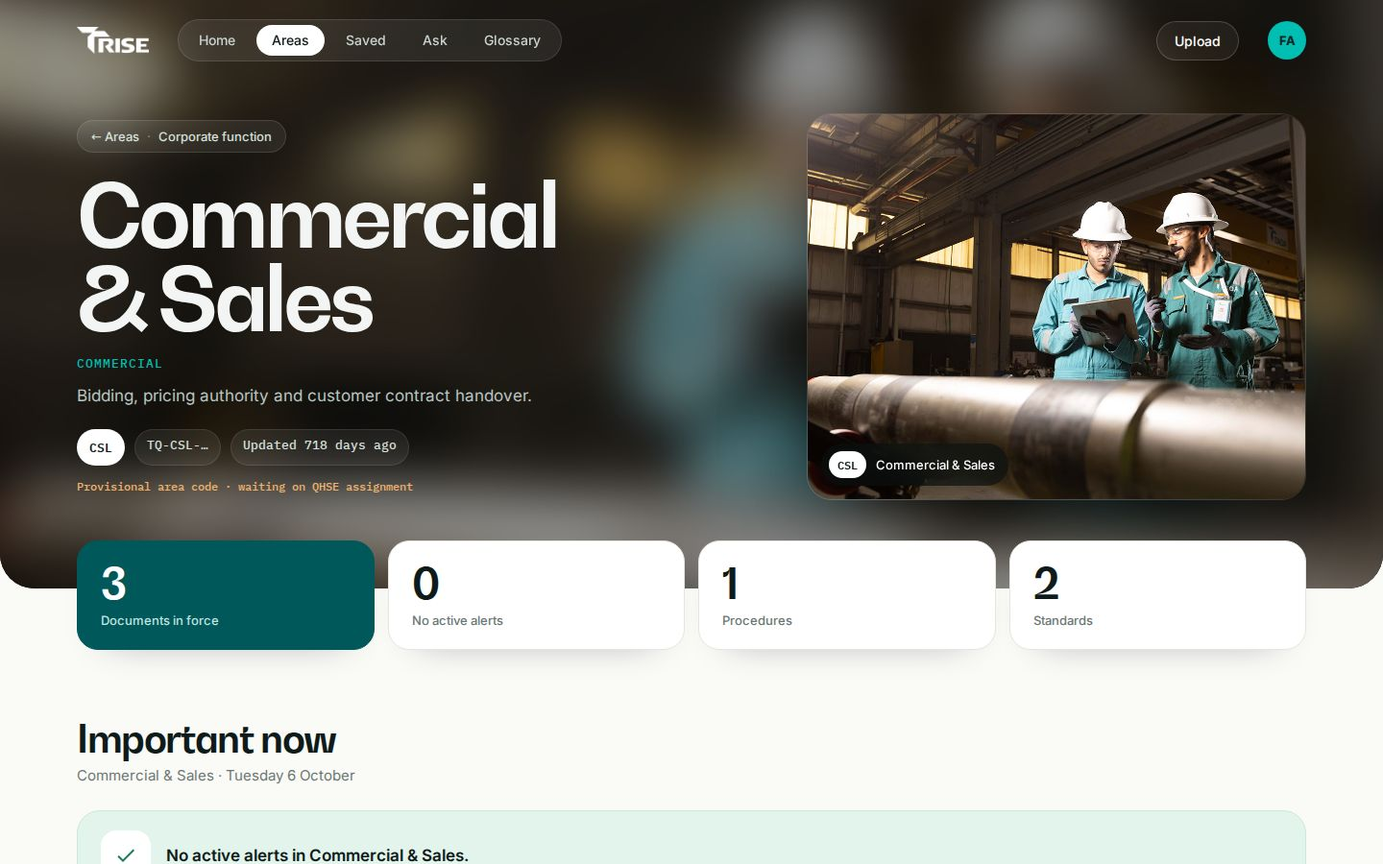
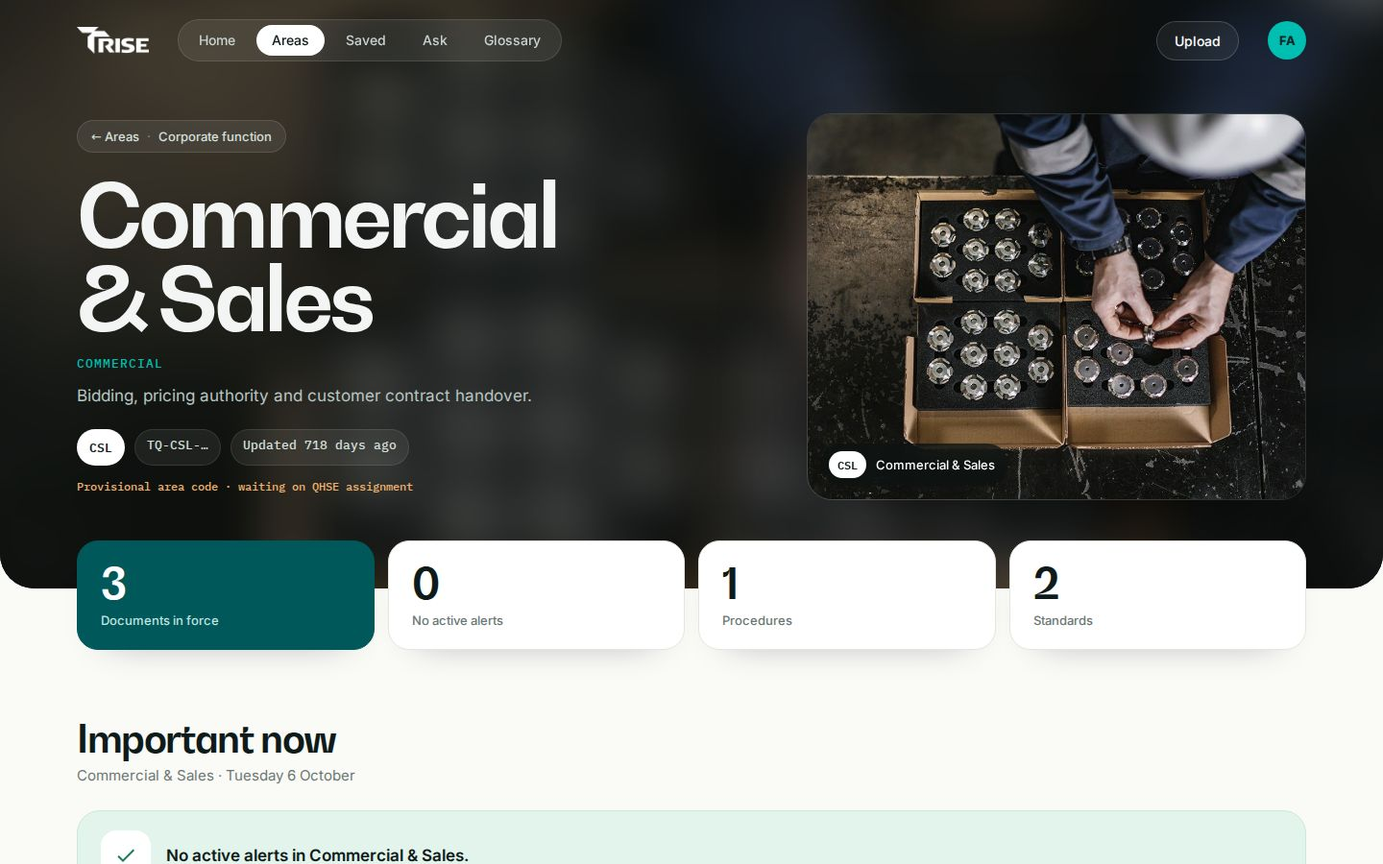
RISE: photos for eight more areas, Well Completions photo as the default (exploration)
Claude-Session: https://claude.ai/code/session_01SsmAy64nNwXThAWKPA8c7n

diff --git a/docs/design/rise-exploration/register/pages/seg-pt-drilling-coe.html b/docs/design/rise-exploration/register/pages/seg-pt-drilling-coe.html
@@ -1,6 +1,6 @@
 <!doctype html><html lang="en"><head><meta charset="utf-8"><meta name="viewport" content="width=device-width,initial-scale=1">
 <title>RISE · Drilling Solutions Center of Excellence</title><link rel="stylesheet" href="../../kit/fonts.css"><link rel="stylesheet" href="../css/nova.css"></head><body>
-<header class="mx sg"><div class="bg" style="background-image:url(../img/product-centre.webp)"></div>
+<header class="mx sg"><div class="bg" style="background-image:url(../img/seg-pt-drilling-coe.jpg)"></div>
 <div class="w hn"><a href="bold-mix.html"><img src="../../kit/brand/rise-lockup-header.png" alt="RISE"></a><nav class="links"><a href="bold-mix.html">Home</a><a class="on" href="segments.html">Areas</a><a href="saved.html">Saved</a><a href="ask.html">Ask</a><a href="glossary.html">Glossary</a></nav>
 <span class="sp"></span><a class="up" href="upload.html">Upload</a><span class="av">FA</span></div>
 <div class="w sgh"><div class="sgl">
@@ -9,7 +9,7 @@
   <div class="meta"><span class="code">DSC</span><span class="numl">TQ-P&T-DSC-…</span><span class="upd">Updated 428 days ago</span></div>
   <p class="prov">Provisional area code · waiting on QHSE assignment</p>
 </div>
-<figure class="sgp"><img src="../img/product-centre.webp" alt="Drilling Solutions Center of Excellence"><figcaption><span>DSC</span>Drilling Solutions Center of Excellence</figcaption></figure></div></header>
+<figure class="sgp"><img src="../img/seg-pt-drilling-coe.jpg" alt="Drilling Solutions Center of Excellence" style="object-position:80% 20%"><figcaption><span>DSC</span>Drilling Solutions Center of Excellence</figcaption></figure></div></header>
 <main class="w">
 <div class="mxstats"><div class="stats"><div class="stat t"><b>8</b><span>Documents in force</span></div><div class="stat al"><b>1</b><span>Active alert</span></div><div class="stat"><b>3</b><span>Procedures</span></div><div class="stat"><b>2</b><span>Product Manuals</span></div></div></div>
 <section class="sec"><div class="sh"><div><h2>Important now</h2><p>Drilling Solutions Center of Excellence · Tuesday 6 October</p></div></div><a class="alertc" href="#"><span class="ic"><svg viewBox="0 0 24 24" aria-hidden="true"><path fill="currentColor" d="M12 2 22 20H2zm-1 7v5h2V9zm0 7v2h2v-2z"/></svg></span><span class="tx"><span class="m">TECHNICAL ALERT · ALT-007 · REV 1.0</span><b>Jar Mandrel Inspection Interval Revised</b>

diff --git a/docs/design/rise-exploration/register/pages/seg-pt-completions-coe.html b/docs/design/rise-exploration/register/pages/seg-pt-completions-coe.html
@@ -1,6 +1,6 @@
 <!doctype html><html lang="en"><head><meta charset="utf-8"><meta name="viewport" content="width=device-width,initial-scale=1">
 <title>RISE · Well Completions Center of Excellence</title><link rel="stylesheet" href="../../kit/fonts.css"><link rel="stylesheet" href="../css/nova.css"></head><body>
-<header class="mx sg"><div class="bg" style="background-image:url(../img/product-centre.webp)"></div>
+<header class="mx sg"><div class="bg" style="background-image:url(../img/seg-pt-completions-coe.jpg)"></div>
 <div class="w hn"><a href="bold-mix.html"><img src="../../kit/brand/rise-lockup-header.png" alt="RISE"></a><nav class="links"><a href="bold-mix.html">Home</a><a class="on" href="segments.html">Areas</a><a href="saved.html">Saved</a><a href="ask.html">Ask</a><a href="glossary.html">Glossary</a></nav>
 <span class="sp"></span><a class="up" href="upload.html">Upload</a><span class="av">FA</span></div>
 <div class="w sgh"><div class="sgl">
@@ -9,7 +9,7 @@
   <div class="meta"><span class="code">WCC</span><span class="numl">TQ-P&T-WCC-…</span><span class="upd">Updated 450 days ago</span></div>
   <p class="prov">Provisional area code · waiting on QHSE assignment</p>
 </div>
-<figure class="sgp"><img src="../img/product-centre.webp" alt="Well Completions Center of Excellence"><figcaption><span>WCC</span>Well Completions Center of Excellence</figcaption></figure></div></header>
+<figure class="sgp"><img src="../img/seg-pt-completions-coe.jpg" alt="Well Completions Center of Excellence"><figcaption><span>WCC</span>Well Completions Center of Excellence</figcaption></figure></div></header>
 <main class="w">
 <div class="mxstats"><div class="stats"><div class="stat t"><b>7</b><span>Documents in force</span></div><div class="stat"><b>0</b><span>No active alerts</span></div><div class="stat"><b>3</b><span>Procedures</span></div><div class="stat"><b>2</b><span>Product Manuals</span></div></div></div>
 <section class="sec"><div class="sh"><div><h2>Important now</h2><p>Well Completions Center of Excellence · Tuesday 6 October</p></div></div><div class="calmc"><span class="ic"><svg viewBox="0 0 24 24" aria-hidden="true"><path fill="currentColor" d="M9 16.2 4.8 12l-1.4 1.4L9 19 21 7l-1.4-1.4z"/></svg></span><b>No active alerts in Well Completions Center of Excellence.</b></div></section>

diff --git a/docs/design/rise-exploration/register/pages/seg-well-safety.html b/docs/design/rise-exploration/register/pages/seg-well-safety.html
@@ -1,6 +1,6 @@
 <!doctype html><html lang="en"><head><meta charset="utf-8"><meta name="viewport" content="width=device-width,initial-scale=1">
 <title>RISE · Safety Services</title><link rel="stylesheet" href="../../kit/fonts.css"><link rel="stylesheet" href="../css/nova.css"></head><body>
-<header class="mx sg"><div class="bg" style="background-image:url(../img/taqa-hero-5.jpeg)"></div>
+<header class="mx sg"><div class="bg" style="background-image:url(../img/seg-well-safety.jpg)"></div>
 <div class="w hn"><a href="bold-mix.html"><img src="../../kit/brand/rise-lockup-header.png" alt="RISE"></a><nav class="links"><a href="bold-mix.html">Home</a><a class="on" href="segments.html">Areas</a><a href="saved.html">Saved</a><a href="ask.html">Ask</a><a href="glossary.html">Glossary</a></nav>
 <span class="sp"></span><a class="up" href="upload.html">Upload</a><span class="av">FA</span></div>
 <div class="w sgh"><div class="sgl">
@@ -9,7 +9,7 @@
   <div class="meta"><span class="code">WSS</span><span class="numl">TQ-TWS-WSS-…</span><span class="upd">Updated 25 days ago</span></div>
   <nav class="sw"><a class="on" href="#">Operations</a><a href="#">Maintenance</a></nav>
 </div>
-<figure class="sgp"><img src="../img/taqa-hero-5.jpeg" alt="Safety Services"><figcaption><span>WSS</span>Safety Services</figcaption></figure></div></header>
+<figure class="sgp"><img src="../img/seg-well-safety.jpg" alt="Safety Services"><figcaption><span>WSS</span>Safety Services</figcaption></figure></div></header>
 <main class="w">
 <div class="mxstats"><div class="stats"><div class="stat t"><b>41</b><span>Documents in force</span></div><div class="stat al"><b>4</b><span>Active alerts</span></div><div class="stat"><b>13</b><span>Standard Operating Procedures</span></div><div class="stat"><b>5</b><span>Technical Manuals</span></div></div></div>
 <section class="sec"><div class="sh"><div><h2>Important now</h2><p>Safety Services · Operations · Tuesday 6 October</p></div></div><a class="alertc" href="#"><span class="ic"><svg viewBox="0 0 24 24" aria-hidden="true"><path fill="currentColor" d="M12 2 22 20H2zm-1 7v5h2V9zm0 7v2h2v-2z"/></svg></span><span class="tx"><span class="m">TECHNICAL ALERT · ALT-004 · REV 1.0</span><b>Barrier integrity concern on 3 wells, inspection ordered</b>

diff --git a/docs/design/rise-exploration/register/pages/seg-cybersecurity.html b/docs/design/rise-exploration/register/pages/seg-cybersecurity.html
@@ -1,6 +1,6 @@
 <!doctype html><html lang="en"><head><meta charset="utf-8"><meta name="viewport" content="width=device-width,initial-scale=1">
 <title>RISE · Governance, Risk & Compliance</title><link rel="stylesheet" href="../../kit/fonts.css"><link rel="stylesheet" href="../css/nova.css"></head><body>
-<header class="mx sg"><div class="bg" style="background-image:url(../img/taqa-hero-4.jpg)"></div>
+<header class="mx sg"><div class="bg" style="background-image:url(../img/seg-well-completions.jpg)"></div>
 <div class="w hn"><a href="bold-mix.html"><img src="../../kit/brand/rise-lockup-header.png" alt="RISE"></a><nav class="links"><a href="bold-mix.html">Home</a><a class="on" href="segments.html">Areas</a><a href="saved.html">Saved</a><a href="ask.html">Ask</a><a href="glossary.html">Glossary</a></nav>
 <span class="sp"></span><a class="up" href="upload.html">Upload</a><span class="av">FA</span></div>
 <div class="w sgh"><div class="sgl">
@@ -9,7 +9,7 @@
   <div class="meta"><span class="code">GRC</span><span class="numl">TQ-GRC-…</span><span class="upd">Updated 30 days ago</span></div>
   
 </div>
-<figure class="sgp"><img src="../img/taqa-hero-4.jpg" alt="Governance, Risk & Compliance"><figcaption><span>GRC</span>Governance, Risk & Compliance</figcaption></figure></div></header>
+<figure class="sgp"><img src="../img/seg-well-completions.jpg" alt="Governance, Risk & Compliance"><figcaption><span>GRC</span>Governance, Risk & Compliance</figcaption></figure></div></header>
 <main class="w">
 <div class="mxstats"><div class="stats"><div class="stat t"><b>24</b><span>Documents in force</span></div><div class="stat al"><b>1</b><span>Active alert</span></div><div class="stat"><b>6</b><span>Procedures</span></div><div class="stat"><b>5</b><span>Manuals</span></div></div></div>
 <section class="sec"><div class="sh"><div><h2>Important now</h2><p>Governance, Risk & Compliance · Tuesday 6 October</p></div></div><a class="alertc" href="#"><span class="ic"><svg viewBox="0 0 24 24" aria-hidden="true"><path fill="currentColor" d="M12 2 22 20H2zm-1 7v5h2V9zm0 7v2h2v-2z"/></svg></span><span class="tx"><span class="m">TECHNICAL ALERT · ALT-001 · REV 4.0</span><b>Annual security awareness training due, all staff must complete by July 2026</b>

diff --git a/docs/design/rise-exploration/register/pages/seg-geothermal-coe.html b/docs/design/rise-exploration/register/pages/seg-geothermal-coe.html
@@ -1,6 +1,6 @@
 <!doctype html><html lang="en"><head><meta charset="utf-8"><meta name="viewport" content="width=device-width,initial-scale=1">
 <title>RISE · Geothermal Center of Excellence</title><link rel="stylesheet" href="../../kit/fonts.css"><link rel="stylesheet" href="../css/nova.css"></head><body>
-<header class="mx sg"><div class="bg" style="background-image:url(../img/taqa-hero-3.jpeg)"></div>
+<header class="mx sg"><div class="bg" style="background-image:url(../img/seg-geothermal-coe.jpg)"></div>
 <div class="w hn"><a href="bold-mix.html"><img src="../../kit/brand/rise-lockup-header.png" alt="RISE"></a><nav class="links"><a href="bold-mix.html">Home</a><a class="on" href="segments.html">Areas</a><a href="saved.html">Saved</a><a href="ask.html">Ask</a><a href="glossary.html">Glossary</a></nav>
 <span class="sp"></span><a class="up" href="upload.html">Upload</a><span class="av">FA</span></div>
 <div class="w sgh"><div class="sgl">
@@ -9,7 +9,7 @@
   <div class="meta"><span class="code">GEO</span><span class="numl">TQ-GEO-…</span><span class="upd">Updated 434 days ago</span></div>
   <p class="prov">Provisional area code · waiting on QHSE assignment</p>
 </div>
-<figure class="sgp"><img src="../img/taqa-hero-3.jpeg" alt="Geothermal Center of Excellence"><figcaption><span>GEO</span>Geothermal Center of Excellence</figcaption></figure></div></header>
+<figure class="sgp"><img src="../img/seg-geothermal-coe.jpg" alt="Geothermal Center of Excellence"><figcaption><span>GEO</span>Geothermal Center of Excellence</figcaption></figure></div></header>
 <main class="w">
 <div class="mxstats"><div class="stats"><div class="stat t"><b>3</b><span>Documents in force</span></div><div class="stat"><b>0</b><span>No active alerts</span></div><div class="stat"><b>2</b><span>Procedures</span></div><div class="stat"><b>1</b><span>Manuals</span></div></div></div>
 <section class="sec"><div class="sh"><div><h2>Important now</h2><p>Geothermal Center of Excellence · Tuesday 6 October</p></div></div><div class="calmc"><span class="ic"><svg viewBox="0 0 24 24" aria-hidden="true"><path fill="currentColor" d="M9 16.2 4.8 12l-1.4 1.4L9 19 21 7l-1.4-1.4z"/></svg></span><b>No active alerts in Geothermal Center of Excellence.</b></div></section>

diff --git a/docs/design/rise-exploration/register/pages/seg-well-completions.html b/docs/design/rise-exploration/register/pages/seg-well-completions.html
@@ -1,6 +1,6 @@
 <!doctype html><html lang="en"><head><meta charset="utf-8"><meta name="viewport" content="width=device-width,initial-scale=1">
 <title>RISE · Well Completions</title><link rel="stylesheet" href="../../kit/fonts.css"><link rel="stylesheet" href="../css/nova.css"></head><body>
-<header class="mx sg"><div class="bg" style="background-image:url(../img/taqa-hero-2.jpg)"></div>
+<header class="mx sg"><div class="bg" style="background-image:url(../img/seg-well-completions.jpg)"></div>
 <div class="w hn"><a href="bold-mix.html"><img src="../../kit/brand/rise-lockup-header.png" alt="RISE"></a><nav class="links"><a href="bold-mix.html">Home</a><a class="on" href="segments.html">Areas</a><a href="saved.html">Saved</a><a href="ask.html">Ask</a><a href="glossary.html">Glossary</a></nav>
 <span class="sp"></span><a class="up" href="upload.html">Upload</a><span class="av">FA</span></div>
 <div class="w sgh"><div class="sgl">
@@ -9,7 +9,7 @@
   <div class="meta"><span class="code">WCS</span><span class="numl">TQ-WCS-…</span><span class="upd">Updated 575 days ago</span></div>
   <nav class="sw"><a class="on" href="#">Operations</a><a href="#">Maintenance</a></nav>
 </div>
-<figure class="sgp"><img src="../img/taqa-hero-2.jpg" alt="Well Completions"><figcaption><span>WCS</span>Well Completions</figcaption></figure></div></header>
+<figure class="sgp"><img src="../img/seg-well-completions.jpg" alt="Well Completions"><figcaption><span>WCS</span>Well Completions</figcaption></figure></div></header>
 <main class="w">
 <div class="mxstats"><div class="stats"><div class="stat t"><b>3</b><span>Documents in force</span></div><div class="stat"><b>0</b><span>No active alerts</span></div><div class="stat"><b>2</b><span>Standard Operating Procedures</span></div><div class="stat"><b>1</b><span>Technical Manuals</span></div></div></div>
 <section class="sec"><div class="sh"><div><h2>Important now</h2><p>Well Completions · Operations · Tuesday 6 October</p></div></div><div class="calmc"><span class="ic"><svg viewBox="0 0 24 24" aria-hidden="true"><path fill="currentColor" d="M9 16.2 4.8 12l-1.4 1.4L9 19 21 7l-1.4-1.4z"/></svg></span><b>No active alerts in Well Completions.</b></div></section>

diff --git a/docs/design/rise-exploration/register/pages/seg-marine-services.html b/docs/design/rise-exploration/register/pages/seg-marine-services.html
@@ -1,6 +1,6 @@
 <!doctype html><html lang="en"><head><meta charset="utf-8"><meta name="viewport" content="width=device-width,initial-scale=1">
 <title>RISE · Marine Services</title><link rel="stylesheet" href="../../kit/fonts.css"><link rel="stylesheet" href="../css/nova.css"></head><body>
-<header class="mx sg"><div class="bg" style="background-image:url(../img/taqa-hero-2.jpg)"></div>
+<header class="mx sg"><div class="bg" style="background-image:url(../img/seg-marine-services.jpg)"></div>
 <div class="w hn"><a href="bold-mix.html"><img src="../../kit/brand/rise-lockup-header.png" alt="RISE"></a><nav class="links"><a href="bold-mix.html">Home</a><a class="on" href="segments.html">Areas</a><a href="saved.html">Saved</a><a href="ask.html">Ask</a><a href="glossary.html">Glossary</a></nav>
 <span class="sp"></span><a class="up" href="upload.html">Upload</a><span class="av">FA</span></div>
 <div class="w sgh"><div class="sgl">
@@ -9,7 +9,7 @@
   <div class="meta"><span class="code">MS</span><span class="numl">TQ-MS-…</span><span class="upd">Updated 408 days ago</span></div>
   <nav class="sw"><a class="on" href="#">Operations</a><a href="#">Maintenance</a></nav>
 </div>
-<figure class="sgp"><img src="../img/taqa-hero-2.jpg" alt="Marine Services"><figcaption><span>MS</span>Marine Services</figcaption></figure></div></header>
+<figure class="sgp"><img src="../img/seg-marine-services.jpg" alt="Marine Services"><figcaption><span>MS</span>Marine Services</figcaption></figure></div></header>
 <main class="w">
 <div class="mxstats"><div class="stats"><div class="stat t"><b>3</b><span>Documents in force</span></div><div class="stat"><b>0</b><span>No active alerts</span></div><div class="stat"><b>2</b><span>Standard Operating Procedures</span></div><div class="stat"><b>1</b><span>Forms & Checklists</span></div></div></div>
 <section class="sec"><div class="sh"><div><h2>Important now</h2><p>Marine Services · Operations · Tuesday 6 October</p></div></div><div class="calmc"><span class="ic"><svg viewBox="0 0 24 24" aria-hidden="true"><path fill="currentColor" d="M9 16.2 4.8 12l-1.4 1.4L9 19 21 7l-1.4-1.4z"/></svg></span><b>No active alerts in Marine Services.</b></div></section>

diff --git a/docs/design/rise-exploration/register/pages/seg-well-testing.html b/docs/design/rise-exploration/register/pages/seg-well-testing.html
@@ -1,6 +1,6 @@
 <!doctype html><html lang="en"><head><meta charset="utf-8"><meta name="viewport" content="width=device-width,initial-scale=1">
 <title>RISE · Well Testing</title><link rel="stylesheet" href="../../kit/fonts.css"><link rel="stylesheet" href="../css/nova.css"></head><body>
-<header class="mx sg"><div class="bg" style="background-image:url(../img/taqa-hero-3.jpeg)"></div>
+<header class="mx sg"><div class="bg" style="background-image:url(../img/seg-well-testing.jpg)"></div>
 <div class="w hn"><a href="bold-mix.html"><img src="../../kit/brand/rise-lockup-header.png" alt="RISE"></a><nav class="links"><a href="bold-mix.html">Home</a><a class="on" href="segments.html">Areas</a><a href="saved.html">Saved</a><a href="ask.html">Ask</a><a href="glossary.html">Glossary</a></nav>
 <span class="sp"></span><a class="up" href="upload.html">Upload</a><span class="av">FA</span></div>
 <div class="w sgh"><div class="sgl">
@@ -9,7 +9,7 @@
   <div class="meta"><span class="code">WTS</span><span class="numl">TQ-TWS-WTS-…</span><span class="upd">Updated 109 days ago</span></div>
   <nav class="sw"><a class="on" href="#">Operations</a><a href="#">Maintenance</a></nav>
 </div>
-<figure class="sgp"><img src="../img/taqa-hero-3.jpeg" alt="Well Testing"><figcaption><span>WTS</span>Well Testing</figcaption></figure></div></header>
+<figure class="sgp"><img src="../img/seg-well-testing.jpg" alt="Well Testing"><figcaption><span>WTS</span>Well Testing</figcaption></figure></div></header>
 <main class="w">
 <div class="mxstats"><div class="stats"><div class="stat t"><b>21</b><span>Documents in force</span></div><div class="stat"><b>0</b><span>No active alerts</span></div><div class="stat"><b>7</b><span>Standard Operating Procedures</span></div><div class="stat"><b>6</b><span>Technical Manuals</span></div></div></div>
 <section class="sec"><div class="sh"><div><h2>Important now</h2><p>Well Testing · Operations · Tuesday 6 October</p></div></div><div class="calmc"><span class="ic"><svg viewBox="0 0 24 24" aria-hidden="true"><path fill="currentColor" d="M9 16.2 4.8 12l-1.4 1.4L9 19 21 7l-1.4-1.4z"/></svg></span><b>No active alerts in Well Testing.</b></div></section>

diff --git a/docs/design/rise-exploration/register/pages/seg-commercial.html b/docs/design/rise-exploration/register/pages/seg-commercial.html
@@ -1,6 +1,6 @@
 <!doctype html><html lang="en"><head><meta charset="utf-8"><meta name="viewport" content="width=device-width,initial-scale=1">
 <title>RISE · Commercial & Sales</title><link rel="stylesheet" href="../../kit/fonts.css"><link rel="stylesheet" href="../css/nova.css"></head><body>
-<header class="mx sg"><div class="bg" style="background-image:url(../img/taqa-hero-3.jpeg)"></div>
+<header class="mx sg"><div class="bg" style="background-image:url(../img/seg-well-completions.jpg)"></div>
 <div class="w hn"><a href="bold-mix.html"><img src="../../kit/brand/rise-lockup-header.png" alt="RISE"></a><nav class="links"><a href="bold-mix.html">Home</a><a class="on" href="segments.html">Areas</a><a href="saved.html">Saved</a><a href="ask.html">Ask</a><a href="glossary.html">Glossary</a></nav>
 <span class="sp"></span><a class="up" href="upload.html">Upload</a><span class="av">FA</span></div>
 <div class="w sgh"><div class="sgl">
@@ -9,7 +9,7 @@
   <div class="meta"><span class="code">CSL</span><span class="numl">TQ-CSL-…</span><span class="upd">Updated 718 days ago</span></div>
   <p class="prov">Provisional area code · waiting on QHSE assignment</p>
 </div>
-<figure class="sgp"><img src="../img/taqa-hero-3.jpeg" alt="Commercial & Sales"><figcaption><span>CSL</span>Commercial & Sales</figcaption></figure></div></header>
+<figure class="sgp"><img src="../img/seg-well-completions.jpg" alt="Commercial & Sales"><figcaption><span>CSL</span>Commercial & Sales</figcaption></figure></div></header>
 <main class="w">
 <div class="mxstats"><div class="stats"><div class="stat t"><b>3</b><span>Documents in force</span></div><div class="stat"><b>0</b><span>No active alerts</span></div><div class="stat"><b>1</b><span>Procedures</span></div><div class="stat"><b>2</b><span>Standards</span></div></div></div>
 <section class="sec"><div class="sh"><div><h2>Important now</h2><p>Commercial & Sales · Tuesday 6 October</p></div></div><div class="calmc"><span class="ic"><svg viewBox="0 0 24 24" aria-hidden="true"><path fill="currentColor" d="M9 16.2 4.8 12l-1.4 1.4L9 19 21 7l-1.4-1.4z"/></svg></span><b>No active alerts in Commercial & Sales.</b></div></section>

diff --git a/docs/design/rise-exploration/register/pages/seg-slickline.html b/docs/design/rise-exploration/register/pages/seg-slickline.html
@@ -1,6 +1,6 @@
 <!doctype html><html lang="en"><head><meta charset="utf-8"><meta name="viewport" content="width=device-width,initial-scale=1">
 <title>RISE · Slickline</title><link rel="stylesheet" href="../../kit/fonts.css"><link rel="stylesheet" href="../css/nova.css"></head><body>
-<header class="mx sg"><div class="bg" style="background-image:url(../img/taqa-hero-2.jpg)"></div>
+<header class="mx sg"><div class="bg" style="background-image:url(../img/seg-slickline.jpg)"></div>
 <div class="w hn"><a href="bold-mix.html"><img src="../../kit/brand/rise-lockup-header.png" alt="RISE"></a><nav class="links"><a href="bold-mix.html">Home</a><a class="on" href="segments.html">Areas</a><a href="saved.html">Saved</a><a href="ask.html">Ask</a><a href="glossary.html">Glossary</a></nav>
 <span class="sp"></span><a class="up" href="upload.html">Upload</a><span class="av">FA</span></div>
 <div class="w sgh"><div class="sgl">
@@ -9,7 +9,7 @@
   <div class="meta"><span class="code">SS</span><span class="numl">TQ-SS-…</span><span class="upd">Updated 284 days ago</span></div>
   <nav class="sw"><a class="on" href="#">Operations</a><a href="#">Maintenance</a></nav>
 </div>
-<figure class="sgp"><img src="../img/taqa-hero-2.jpg" alt="Slickline"><figcaption><span>SS</span>Slickline</figcaption></figure></div></header>
+<figure class="sgp"><img src="../img/seg-slickline.jpg" alt="Slickline"><figcaption><span>SS</span>Slickline</figcaption></figure></div></header>
 <main class="w">
 <div class="mxstats"><div class="stats"><div class="stat t"><b>3</b><span>Documents in force</span></div><div class="stat"><b>0</b><span>No active alerts</span></div><div class="stat"><b>2</b><span>Standard Operating Procedures</span></div><div class="stat"><b>1</b><span>Technical Manuals</span></div></div></div>
 <section class="sec"><div class="sh"><div><h2>Important now</h2><p>Slickline · Operations · Tuesday 6 October</p></div></div><div class="calmc"><span class="ic"><svg viewBox="0 0 24 24" aria-hidden="true"><path fill="currentColor" d="M9 16.2 4.8 12l-1.4 1.4L9 19 21 7l-1.4-1.4z"/></svg></span><b>No active alerts in Slickline.</b></div></section>

diff --git a/docs/design/rise-exploration/register/pages/seg-it.html b/docs/design/rise-exploration/register/pages/seg-it.html
@@ -1,6 +1,6 @@
 <!doctype html><html lang="en"><head><meta charset="utf-8"><meta name="viewport" content="width=device-width,initial-scale=1">
 <title>RISE · Information Technology</title><link rel="stylesheet" href="../../kit/fonts.css"><link rel="stylesheet" href="../css/nova.css"></head><body>
-<header class="mx sg"><div class="bg" style="background-image:url(../img/taqa-hero-3.jpeg)"></div>
+<header class="mx sg"><div class="bg" style="background-image:url(../img/seg-well-completions.jpg)"></div>
 <div class="w hn"><a href="bold-mix.html"><img src="../../kit/brand/rise-lockup-header.png" alt="RISE"></a><nav class="links"><a href="bold-mix.html">Home</a><a class="on" href="segments.html">Areas</a><a href="saved.html">Saved</a><a href="ask.html">Ask</a><a href="glossary.html">Glossary</a></nav>
 <span class="sp"></span><a class="up" href="upload.html">Upload</a><span class="av">FA</span></div>
 <div class="w sgh"><div class="sgl">
@@ -9,7 +9,7 @@
   <div class="meta"><span class="code">IT</span><span class="numl">TQ-IT-…</span><span class="upd">Updated 258 days ago</span></div>
   
 </div>
-<figure class="sgp"><img src="../img/taqa-hero-3.jpeg" alt="Information Technology"><figcaption><span>IT</span>Information Technology</figcaption></figure></div></header>
+<figure class="sgp"><img src="../img/seg-well-completions.jpg" alt="Information Technology"><figcaption><span>IT</span>Information Technology</figcaption></figure></div></header>
 <main class="w">
 <div class="mxstats"><div class="stats"><div class="stat t"><b>3</b><span>Documents in force</span></div><div class="stat"><b>0</b><span>No active alerts</span></div><div class="stat"><b>2</b><span>Procedures</span></div><div class="stat"><b>1</b><span>Standards</span></div></div></div>
 <section class="sec"><div class="sh"><div><h2>Important now</h2><p>Information Technology · Tuesday 6 October</p></div></div><div class="calmc"><span class="ic"><svg viewBox="0 0 24 24" aria-hidden="true"><path fill="currentColor" d="M9 16.2 4.8 12l-1.4 1.4L9 19 21 7l-1.4-1.4z"/></svg></span><b>No active alerts in Information Technology.</b></div></section>

diff --git a/docs/design/rise-exploration/register/pages/seg-hr.html b/docs/design/rise-exploration/register/pages/seg-hr.html
@@ -1,6 +1,6 @@
 <!doctype html><html lang="en"><head><meta charset="utf-8"><meta name="viewport" content="width=device-width,initial-scale=1">
 <title>RISE · Human Resources</title><link rel="stylesheet" href="../../kit/fonts.css"><link rel="stylesheet" href="../css/nova.css"></head><body>
-<header class="mx sg"><div class="bg" style="background-image:url(../img/taqa-hero-4.jpg)"></div>
+<header class="mx sg"><div class="bg" style="background-image:url(../img/seg-well-completions.jpg)"></div>
 <div class="w hn"><a href="bold-mix.html"><img src="../../kit/brand/rise-lockup-header.png" alt="RISE"></a><nav class="links"><a href="bold-mix.html">Home</a><a class="on" href="segments.html">Areas</a><a href="saved.html">Saved</a><a href="ask.html">Ask</a><a href="glossary.html">Glossary</a></nav>
 <span class="sp"></span><a class="up" href="upload.html">Upload</a><span class="av">FA</span></div>
 <div class="w sgh"><div class="sgl">
@@ -9,7 +9,7 @@
   <div class="meta"><span class="code">HR</span><span class="numl">TQ-HR-…</span><span class="upd">Updated 25 days ago</span></div>
   
 </div>
-<figure class="sgp"><img src="../img/taqa-hero-4.jpg" alt="Human Resources"><figcaption><span>HR</span>Human Resources</figcaption></figure></div></header>
+<figure class="sgp"><img src="../img/seg-well-completions.jpg" alt="Human Resources"><figcaption><span>HR</span>Human Resources</figcaption></figure></div></header>
 <main class="w">
 <div class="mxstats"><div class="stats"><div class="stat t"><b>24</b><span>Documents in force</span></div><div class="stat"><b>0</b><span>No active alerts</span></div><div class="stat"><b>6</b><span>Procedures</span></div><div class="stat"><b>5</b><span>Manuals</span></div></div></div>
 <section class="sec"><div class="sh"><div><h2>Important now</h2><p>Human Resources · Tuesday 6 October</p></div></div><div class="calmc"><span class="ic"><svg viewBox="0 0 24 24" aria-hidden="true"><path fill="currentColor" d="M9 16.2 4.8 12l-1.4 1.4L9 19 21 7l-1.4-1.4z"/></svg></span><b>No active alerts in Human Resources.</b></div></section>
